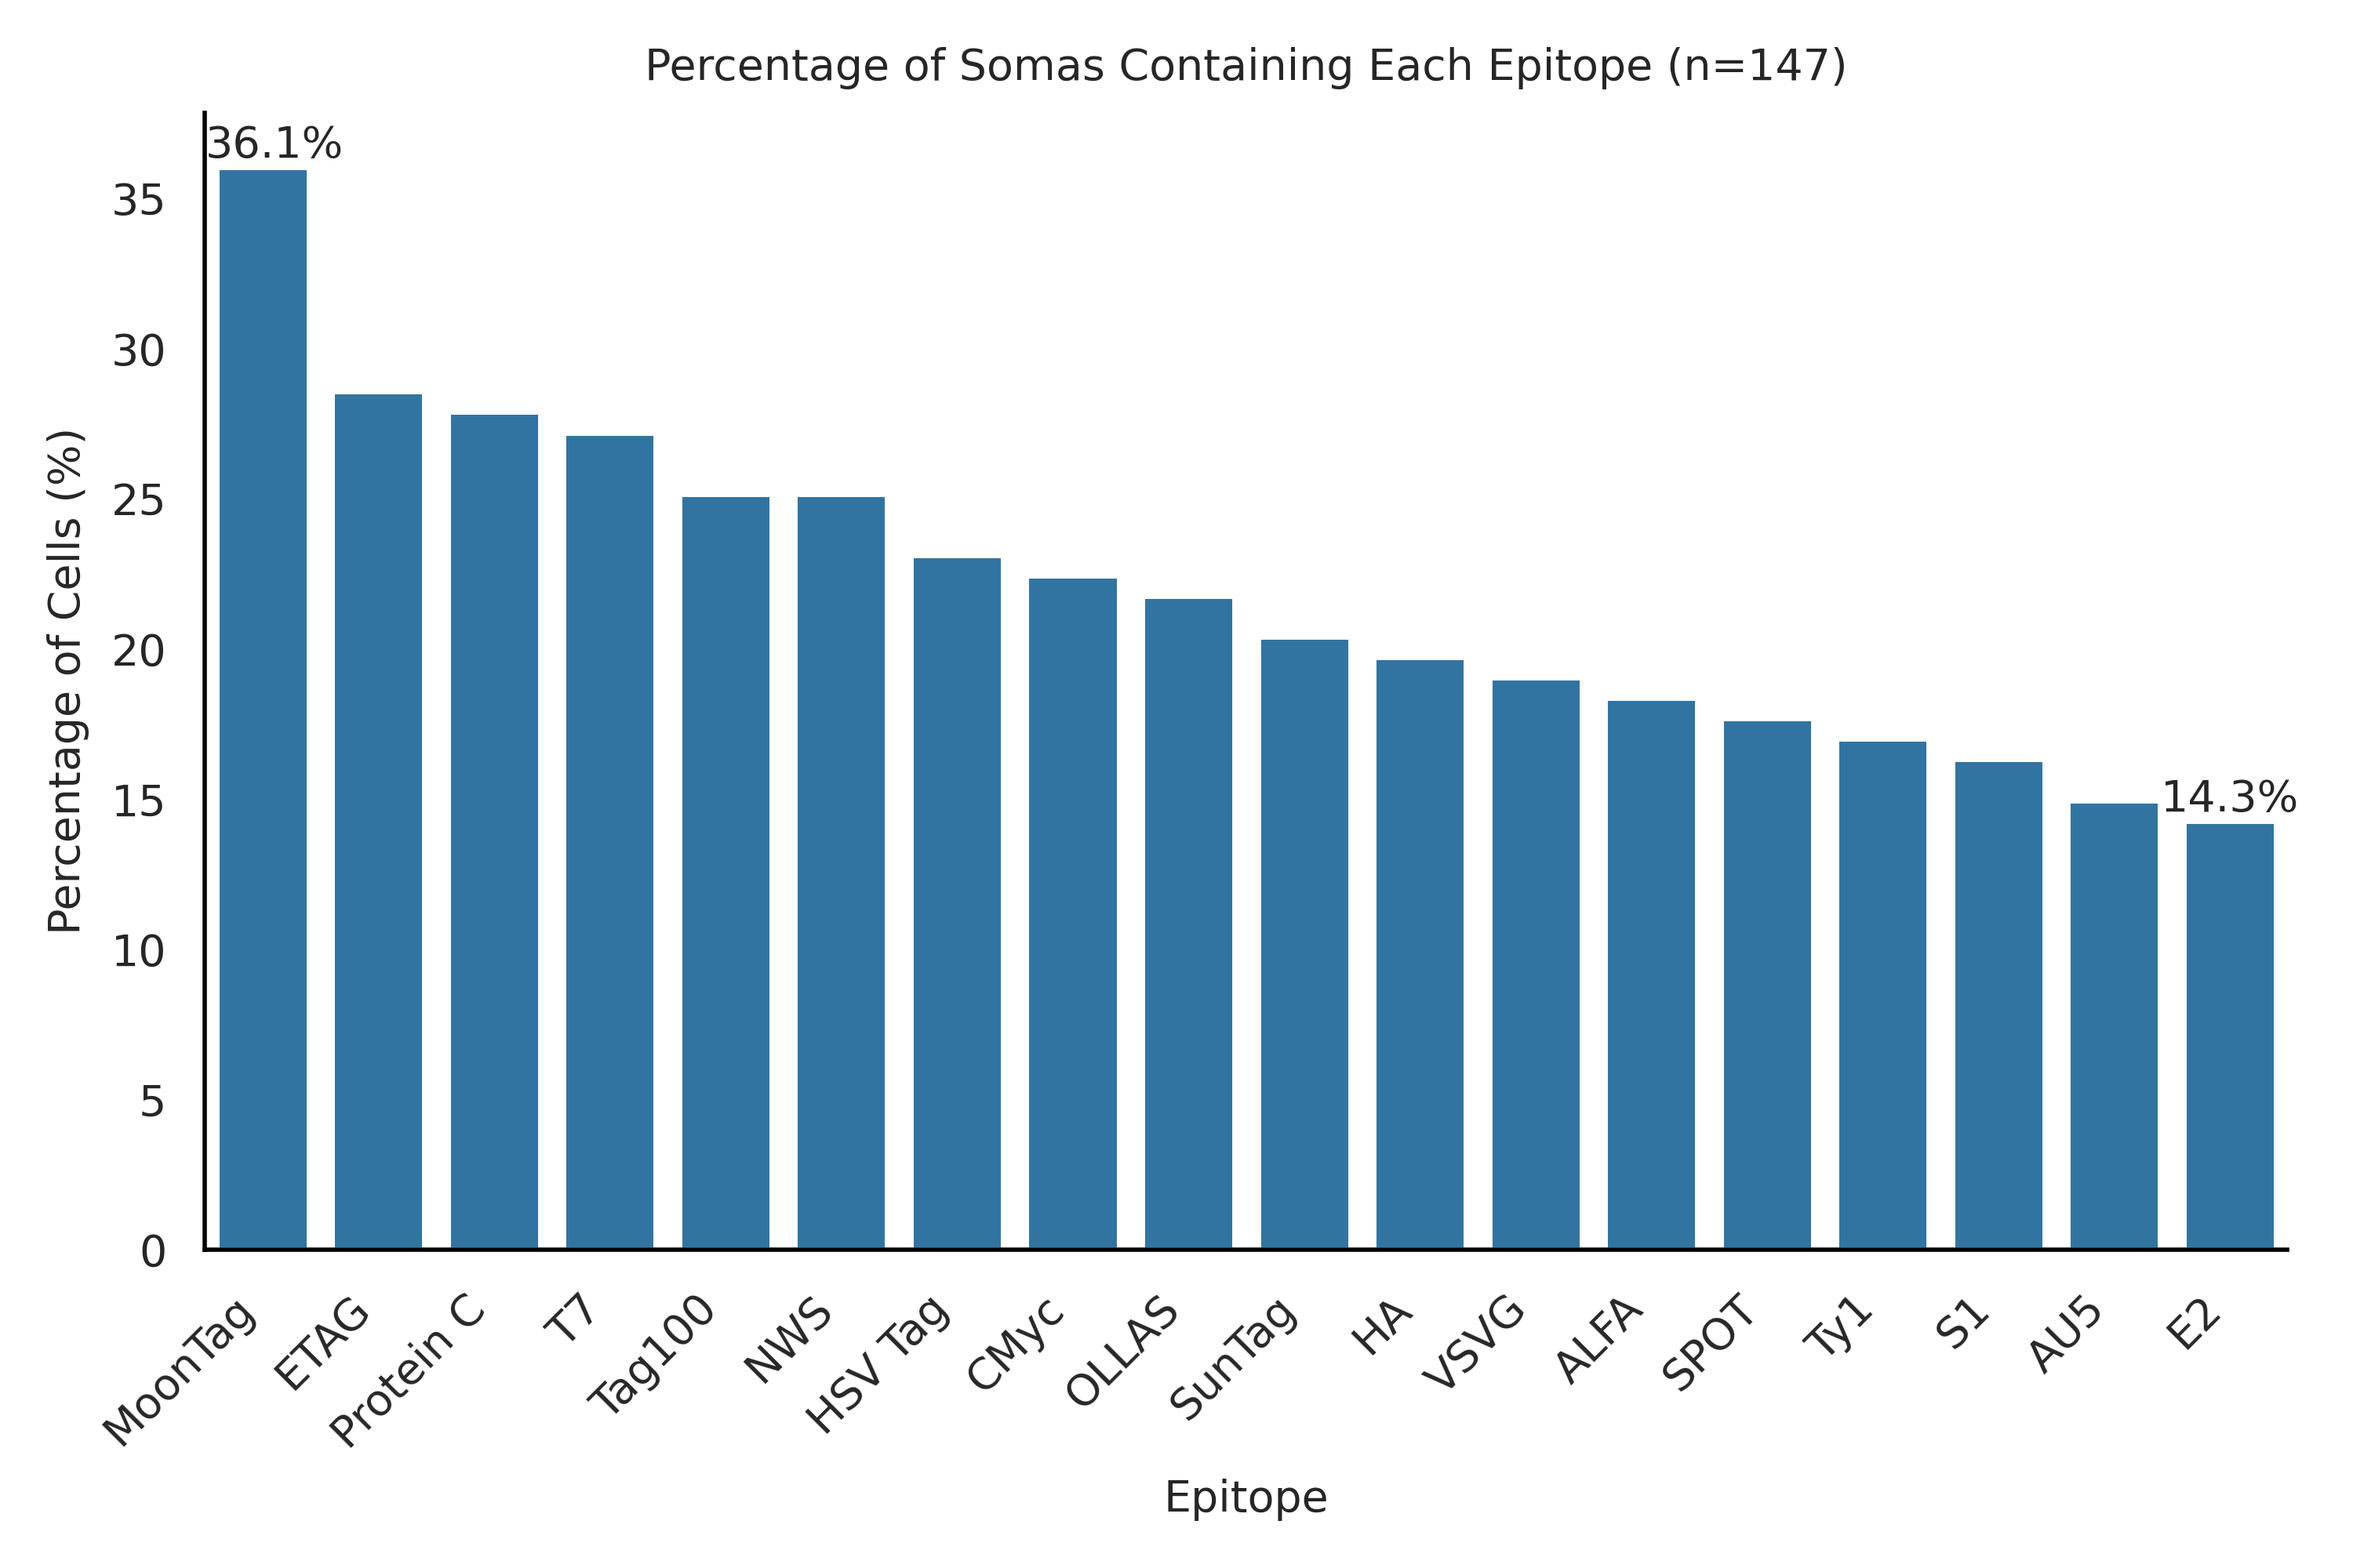
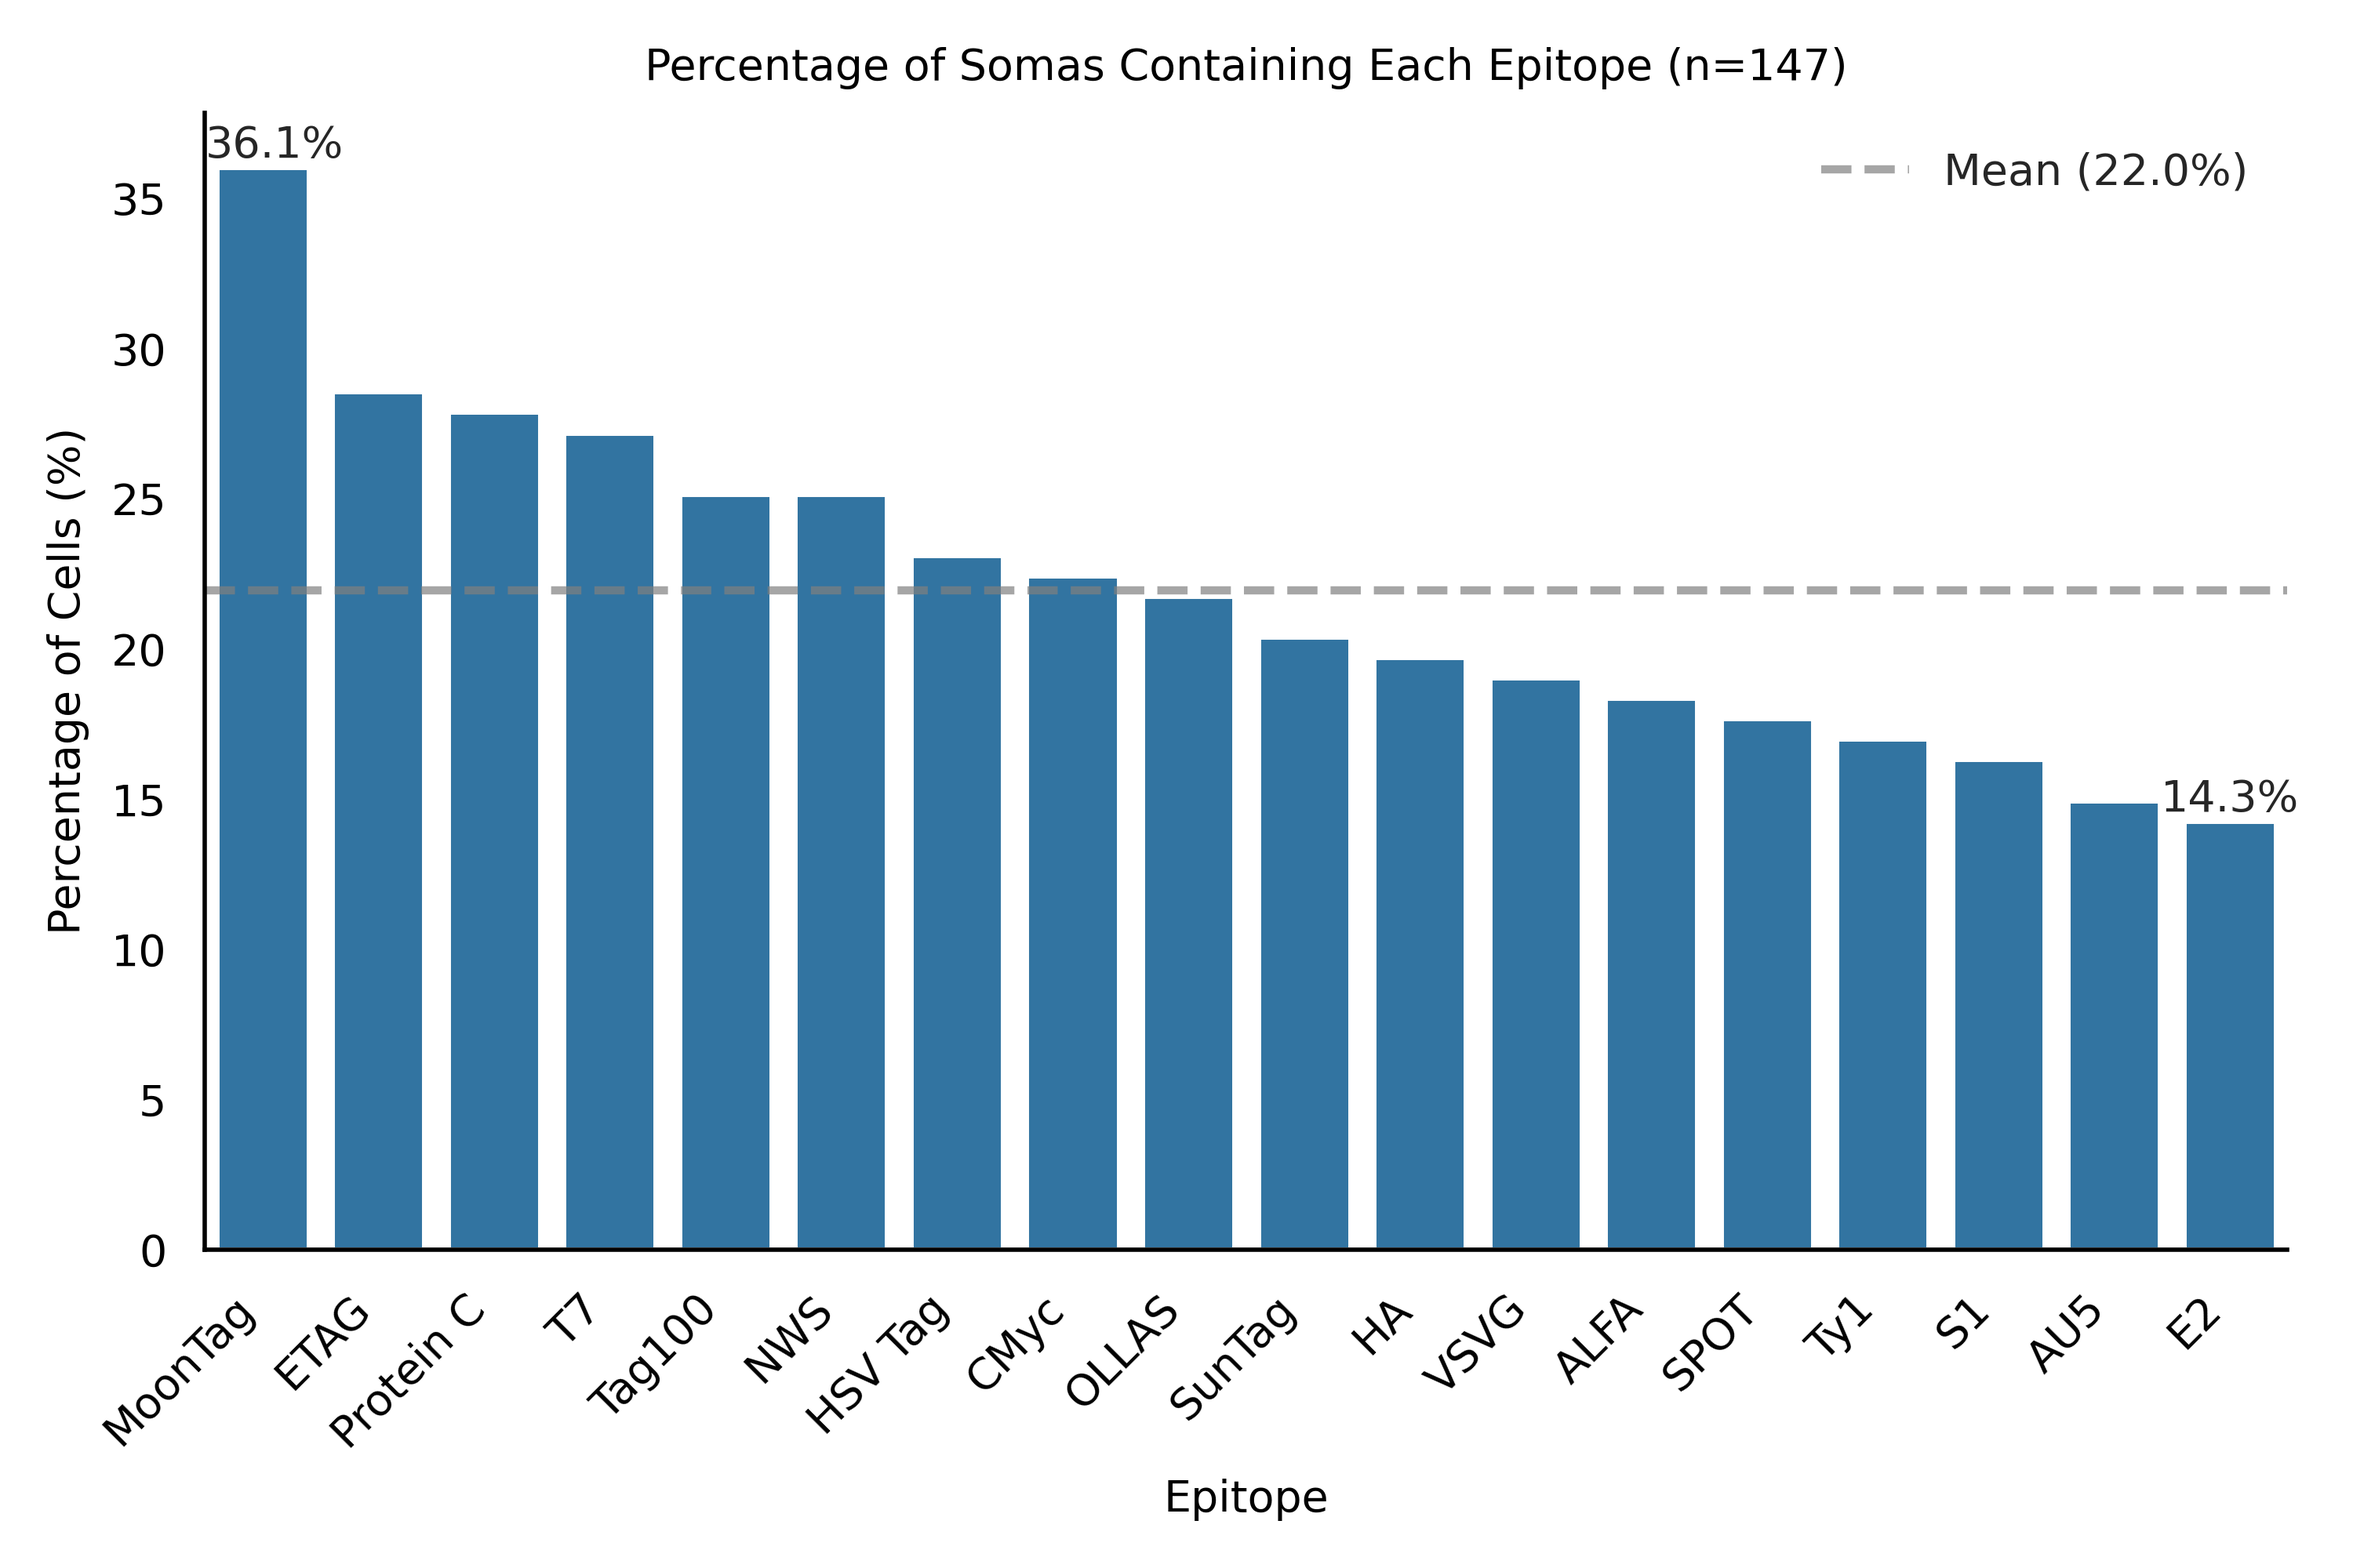
hierarchichal clustering

diff --git a/Plotting-scripts/hierarchical-clustering.py b/Plotting-scripts/hierarchical-clustering.py
@@ -1,0 +1,156 @@
+# this script generates a hierarchical clustering plot of the soma barcodes
+
+
+import numpy as np
+import pandas as pd
+import matplotlib.pyplot as plt
+import seaborn as sns
+import os
+from scipy.stats import entropy
+from scipy.spatial.distance import pdist, squareform
+from scipy.cluster.hierarchy import linkage, leaves_list
+
+from plot_settings import (
+    MAIN_COLOR, SECONDARY_COLOR, FIG_SIZE, set_style, DPI, OUTPUT_DIR,
+    TITLE_SIZE, LABEL_SIZE, TICK_SIZE, LEGEND_SIZE, ANNOTATION_SIZE, FONT_FAMILY
+)
+
+from soma_preprocessing import (
+    generate_barcode_array,
+    target_channels
+)
+
+# Create output directory if it doesn't exist
+OUTPUT_DIR = OUTPUT_DIR
+
+# generate barcodes array
+soma_barcodes = generate_barcode_array()
+
+
+# hierarchical clustering approach
+
+# Function to create the hierarchical clustered heatmap
+def create_hierarchical_clustered_heatmap(soma_barcodes, method=None, output_path=None):
+    """Create a heatmap of soma barcodes with hierarchical clustering using Hamming distance."""
+    n_somas, n_channels = soma_barcodes.shape
+    print(f"Creating hierarchical clustered heatmap for {n_somas} somas with {n_channels} channels")
+    print(f"Using {method} linkage method")
+    
+    # Calculate Hamming distances between all pairs of somas
+    hamming_distances = pdist(soma_barcodes, metric='hamming')
+    
+    # Create the linkage matrix
+    Z = linkage(hamming_distances, method=method)
+    
+    # Get the order of samples from the hierarchical clustering
+    cluster_order = leaves_list(Z)
+    
+    # Reorder the soma barcodes according to the clustering
+    clustered_barcodes = soma_barcodes[cluster_order]
+    
+    set_style()
+    # Create figure for the heatmap
+    fig = plt.figure(figsize=(4,6), dpi=DPI)
+    ax_heatmap = plt.gca()
+ 
+    # Plot the heatmap with inverted colors (binary_r) and no grid lines
+    ax = sns.heatmap(clustered_barcodes, ax=ax_heatmap, cmap='binary_r',
+                yticklabels=False, cbar=False, vmin=0, vmax=1,
+                linewidths=0, linecolor='white')  # Removed grid by setting linewidths=0
+    
+    
+
+    # Set x-axis labels for the target channels with simplified names
+    channel_names = ['E2', 'S1', 'ALFA', 'Ty1', 'HA', 'T7', 
+                     'VSVG', 'AU5', 'NWS', 'SunTag', 'ETAG', 
+                     'SPOT', 'MoonTag', 'HSV', 'ProteinC', 
+                     'Tag100', 'CMyc', 'OLLAS']
+    ax_heatmap.set_xticks(np.arange(n_channels) + 0.5)
+    ax_heatmap.set_xticklabels(channel_names, rotation=90, fontsize=TICK_SIZE, fontfamily=FONT_FAMILY)
+    ax_heatmap.set_xlabel('Channels', fontsize=LABEL_SIZE)
+
+    ax_heatmap.set_ylabel('Somas (n=147)', fontsize=LABEL_SIZE)
+    
+    # Add vertical grey lines between columns
+    for i in range(1, n_channels):
+        ax_heatmap.axvline(x=i, color='grey', linestyle='-', linewidth=1.5, alpha=0.5)
+
+    ax.grid(False)
+    
+    # Set font properties for all text elements
+    for text in ax_heatmap.get_xticklabels() + ax_heatmap.get_yticklabels():
+        text.set_fontfamily(FONT_FAMILY)
+        text.set_fontsize(TICK_SIZE)
+    
+    ax_heatmap.xaxis.label.set_fontfamily(FONT_FAMILY)
+    ax_heatmap.yaxis.label.set_fontfamily(FONT_FAMILY)
+    
+    # plt.title('Soma Barcodes with Hierarchical Clustering', fontsize=16)
+    plt.tight_layout()
+
+    # Save the figure if output_path is provided
+    if output_path:
+        plt.savefig(output_path, dpi=DPI, bbox_inches='tight')
+        print(f"Figure saved to {output_path}")
+    
+    return fig, ax_heatmap
+
+
+def create_markdown_description(output_path, method, n_somas, n_channels):
+    """Create a markdown file describing the hierarchical clustering analysis"""
+    markdown_content = f"""# Hierarchical Clustering Analysis of Soma Barcodes
+
+## Overview
+This analysis presents a hierarchical clustering of {n_somas} soma barcodes across {n_channels} epitope channels.
+
+## Methodology
+- **Data**: Binary barcode matrix where each row represents a soma and each column represents a target channel
+- **Distance Metric**: Hamming distance between barcode patterns
+- **Linkage Method**: {method} linkage
+- **Visualization**: Binary heatmap where black indicates presence (1) and white indicates absence (0)
+
+## Interpretation
+The hierarchical clustering organizes somas with similar barcode patterns together, revealing potential groups or clusters of somas that share similar epitope expression patterns. Clusters of somas with similar patterns may indicate:
+
+1. Somas with shared lineage
+2. Somas with similar functional properties
+3. Potential technical artifacts or batch effects
+
+## Channels
+The 18 epitope channels displayed from left to right are:
+- E2, S1, ALFA, Ty1, HA, T7, VSVG, AU5, NWS, SunTag, ETAG, SPOT, MoonTag, HSV, ProteinC, Tag100, CMyc, OLLAS
+
+![Hierarchical Clustering Heatmap]({os.path.basename(output_path)})
+"""
+    
+    with open(output_path.replace('.png', '.md'), 'w') as f:
+        f.write(markdown_content)
+    
+    print(f"Markdown description saved to {output_path.replace('.png', '.md')}")
+
+
+# Create the hierarchical clustered heatmap with x linkage
+output_filename = "hierarchical_clustering.png"
+output_path = os.path.join(OUTPUT_DIR, output_filename)
+
+# ward': 'Minimizes variance within clusters; tends to create compact, equal-sized clusters',
+# complete': 'Uses maximum distance between elements; sensitive to outliers, creates more balanced clusters',
+# average': 'Uses average distance between all pairs; moderately robust to outliers, creates natural clusters',
+# single': 'Uses minimum distance between elements; can create elongated clusters due to chaining effect'
+
+method = 'ward'
+
+fig, ax_heatmap = create_hierarchical_clustered_heatmap(
+    soma_barcodes, 
+    method=method,
+    output_path=output_path
+)
+
+# Get shape information for the markdown file
+n_somas, n_channels = soma_barcodes.shape
+
+# Create the markdown description
+create_markdown_description(output_path, method, n_somas, n_channels)
+
+# Show the plot (optional - can be commented out for automated runs)
+plt.show()

diff --git a/Plotting-scripts/epitope-distribution.py b/Plotting-scripts/epitope-distribution.py
@@ -1,5 +1,4 @@
 # this script generates a plot for epitope distribution 
-
 import numpy as np
 import pandas as pd
 import matplotlib.pyplot as plt
@@ -28,7 +27,6 @@ mean_percentage = np.mean(epitope_percentages)
 median_percentage = np.median(epitope_percentages)
 
 # Create a DataFrame for easier plotting with the target names
-# Extract just the first part of each epitope name (before "-barcode")
 simplified_epitopes = [name.split('-')[0] for name in target_channels]
 epitope_df = pd.DataFrame({
     'Epitope': simplified_epitopes,
@@ -48,11 +46,25 @@ plt.grid(False)
 ax = plt.gca()
 ax.grid(False)
 
-# Despine the plot (remove top and right spines)
-sns.despine()
+# Ensure all text is black
+ax.title.set_color('black')
+ax.xaxis.label.set_color('black')
+ax.yaxis.label.set_color('black')
+for text in ax.get_xticklabels() + ax.get_yticklabels():
+    text.set_color('black')
+    text.set_fontfamily('Arial')
+    text.set_fontsize(8)
 
-# Set x-axis label font size to 8
+sns.despine()
 plt.xticks(fontsize=8)
+
+# Add a horizontal line for the mean percentage
+mean_line = plt.axhline(y=mean_percentage, color='grey', linestyle='--', alpha=0.7)
+
+# Add a legend for the mean line with dashed line symbol
+plt.legend([mean_line], ['Mean ({:.1f}%)'.format(mean_percentage)], loc='upper right', frameon=False)
+
+
 
 # Add percentage labels only for the lowest and highest bars
 min_idx = epitope_df['Percentage'].idxmin()
@@ -113,9 +125,3 @@ with open(md_filename, 'w') as md_file:
 
 print(f"Plot saved to {plot_filename}")
 print(f"Markdown documentation saved to {md_filename}")
-
-
-
-# lowest and the highest, no other percentages in between
-# get rid of mean
-

diff --git a/Plotting-scripts/plot_settings.py b/Plotting-scripts/plot_settings.py
@@ -4,6 +4,9 @@ import seaborn as sns
 import os
 import pandas as pd
 
+# Output directory, change depending on user, I used my absolute path. 
+OUTPUT_DIR = "/home/aashir/repos/barcode_analysis/Preprint-Barcode-Analysis/Plotting-scripts/Output"
+
 # Figure dimensions
 FIG_WIDTH = 6  # inches
 FIG_HEIGHT = 4  # inches

diff --git a/Plotting-scripts/Output/hierarchical_clustering.md b/Plotting-scripts/Output/hierarchical_clustering.md
@@ -1,0 +1,23 @@
+# Hierarchical Clustering Analysis of Soma Barcodes
+
+## Overview
+This analysis presents a hierarchical clustering of 147 soma barcodes across 18 epitope channels.
+
+## Methodology
+- **Data**: Binary barcode matrix where each row represents a soma and each column represents a target channel
+- **Distance Metric**: Hamming distance between barcode patterns
+- **Linkage Method**: ward linkage
+- **Visualization**: Binary heatmap where black indicates presence (1) and white indicates absence (0)
+
+## Interpretation
+The hierarchical clustering organizes somas with similar barcode patterns together, revealing potential groups or clusters of somas that share similar epitope expression patterns. Clusters of somas with similar patterns may indicate:
+
+1. Somas with shared lineage
+2. Somas with similar functional properties
+3. Potential technical artifacts or batch effects
+
+## Channels
+The 18 epitope channels displayed from left to right are:
+- E2, S1, ALFA, Ty1, HA, T7, VSVG, AU5, NWS, SunTag, ETAG, SPOT, MoonTag, HSV, ProteinC, Tag100, CMyc, OLLAS
+
+![Hierarchical Clustering Heatmap](hierarchical_clustering.png)

diff --git a/Plotting-scripts/Output/somas_barcode_length_distr.md b/Plotting-scripts/Output/somas_barcode_length_distr.md
@@ -1,6 +1,6 @@
 # Barcode Length Distribution Analysis
 
-**Date:** 2025-03-31 21:58:35
+**Date:** 2025-03-31 22:45:41
 
 ## Description
 This analysis shows the distribution of barcode lengths (number of positive markers) across 147 soma cells.
